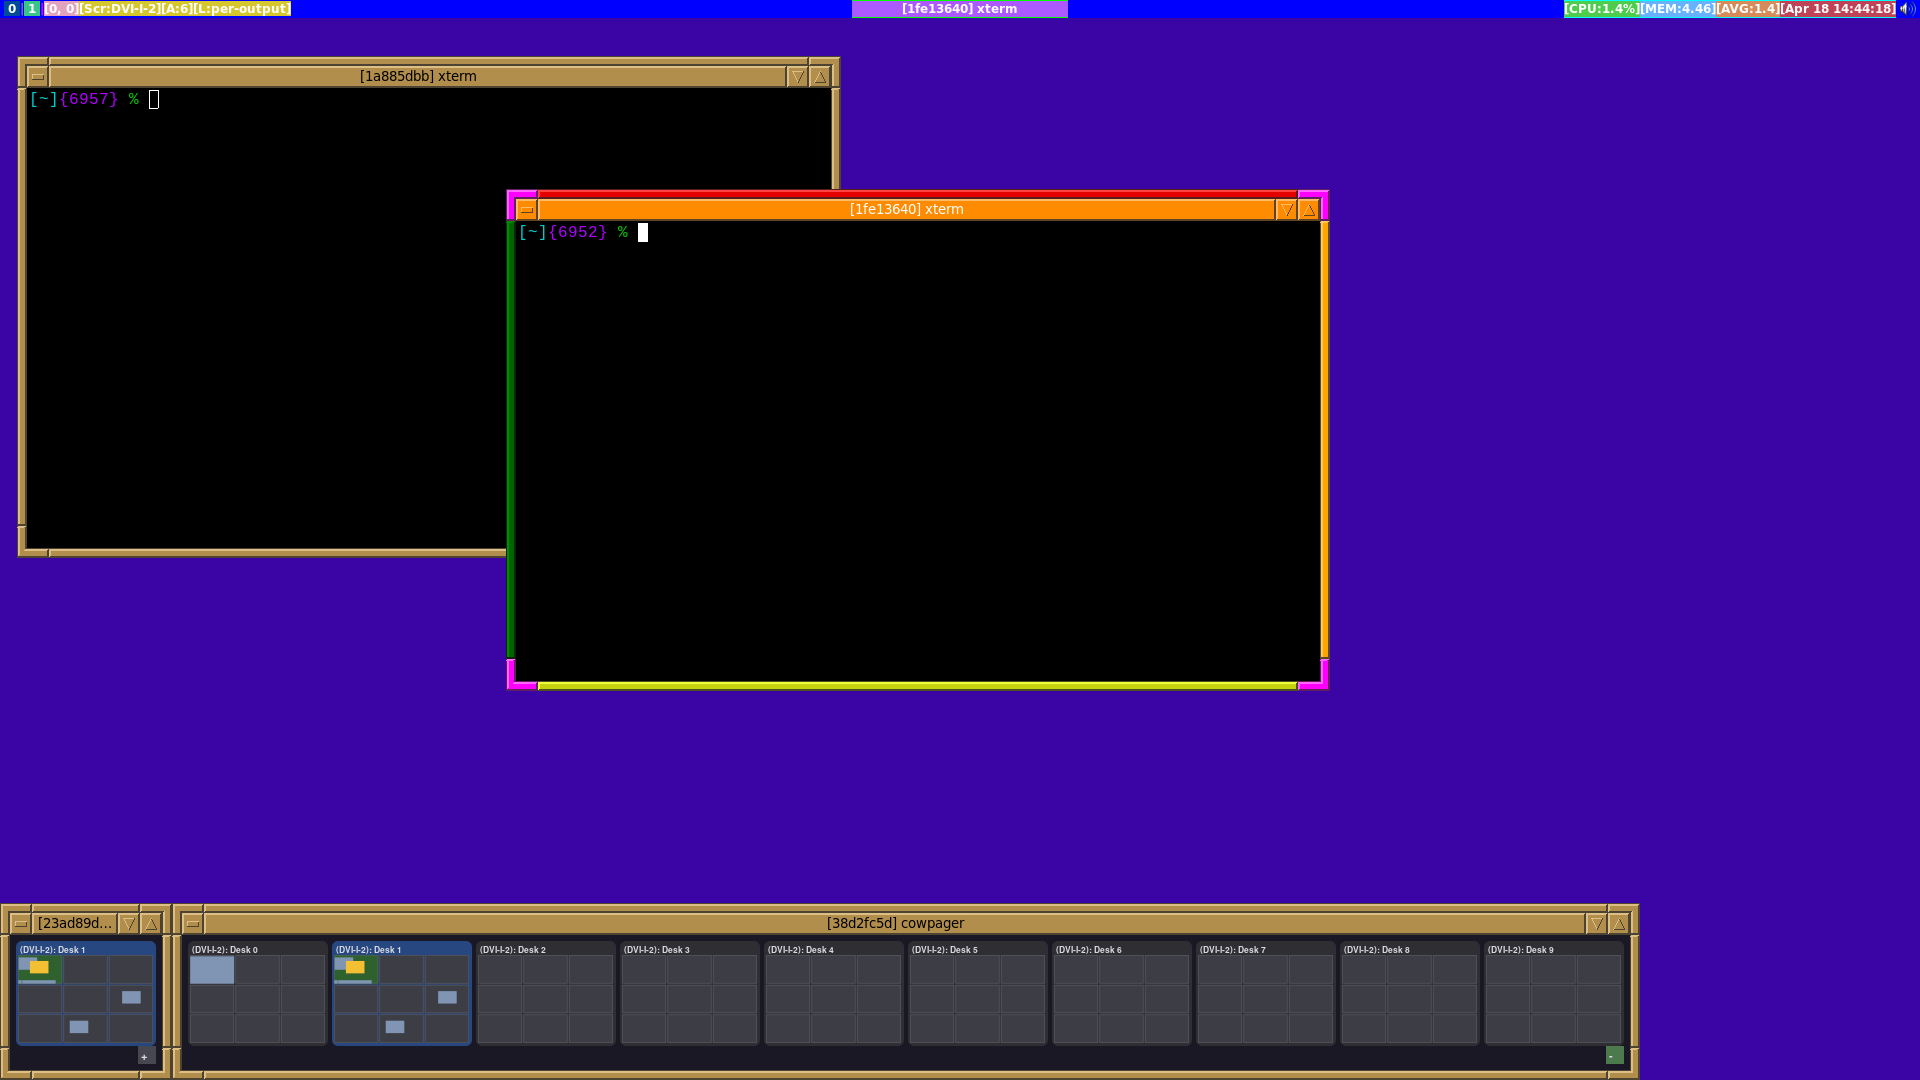
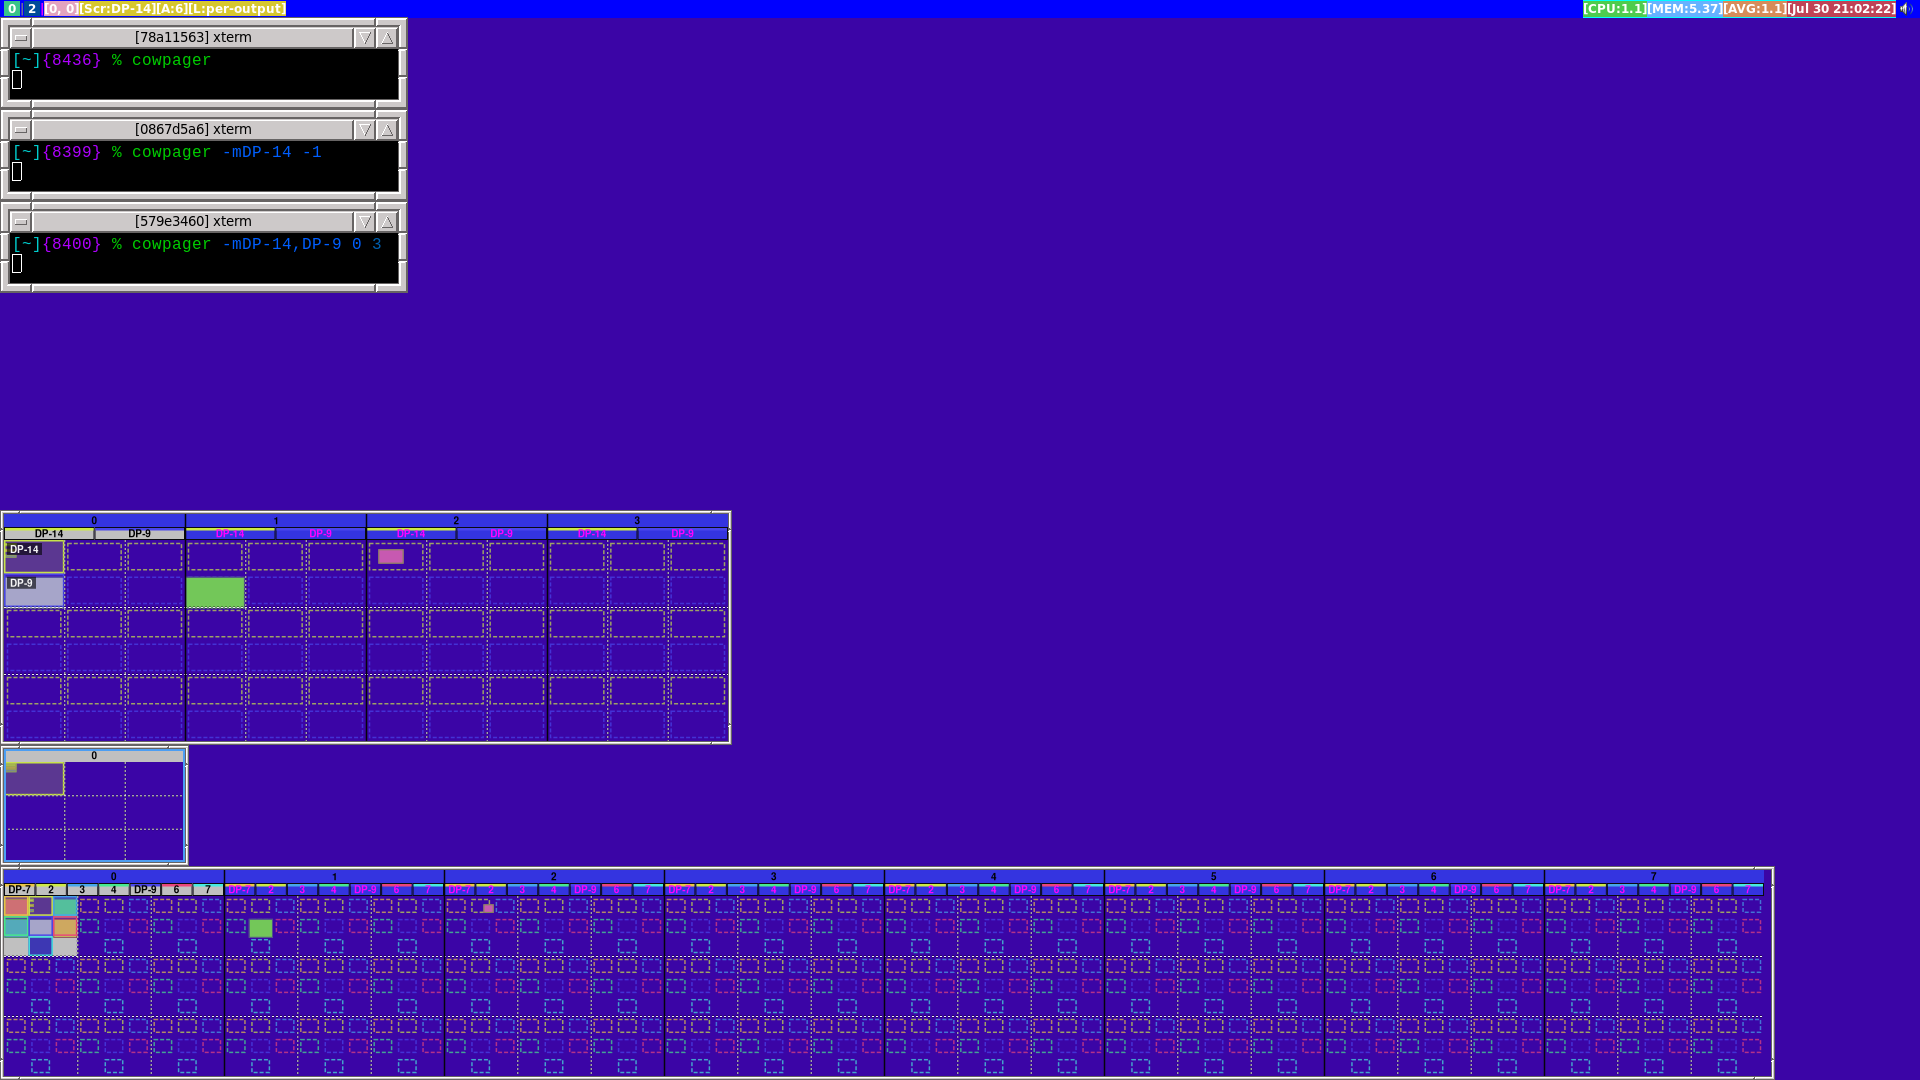
README: update for packages

diff --git a/README.md b/README.md
@@ -67,6 +67,10 @@ windows together into tabs.
 
 A very crude video is [also available](https://youtu.be/tRdhfRfdPuI)
 
+### Old Screenshots
+
+See: https://codeberg.org/thomasadam/cow/wiki/Screenshots
+
 ## How do I build CoW?
 
 Because `cow` is a window manager reliant on `river`, then the binary for
@@ -128,6 +132,10 @@ cow to be used with wayland login managers.
 CoW has support for themes -- see [the themes directory](examples/themes) for
 more information about how to use these.  They're currently a feeble and
 incomplete attempt at converting [fvwm-themes to cow](https://fvwm-themes.sourceforge.net/windowdecors/)
+
+## Packages
+
+CoW is packaged by the following entries [found on the wiki](https://codeberg.org/thomasadam/cow/wiki/Packages)
 
 ## Contact and Support
 
